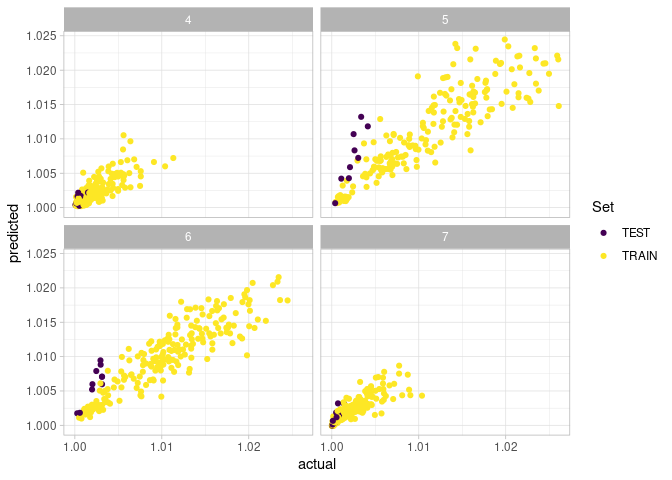
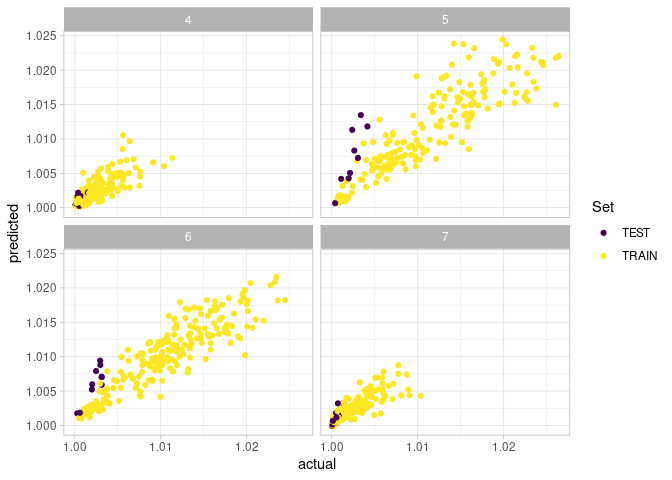
update readme

diff --git a/README.md b/README.md
@@ -147,10 +147,10 @@ bounds_voronoi <- bounds %>%
 bounds_voronoi
 #> 
 #> ‒‒ SSPM Boundary (Discrete) ‒‒
-#> →  Boundaries    : [4 observations, 3 variables]
-#> →  Boundary col. : sfa
-#> →  Surface col.  : area
-#> →  Discretized   : 
+#> →  Boundaries         : [4 observations, 3 variables]
+#> →  Boundary col.      : sfa
+#> →  Boundary area col. : area_sfa
+#> →  Discretized        : 
 #>    ٭ Points — [40 features, 20 variables]
 #>    ٭ Patches — [38 features, 4 variables]
 ```
@@ -185,7 +185,7 @@ spm_plot(bounds_delaunay)
 ``` r
 spm_patches(bounds_voronoi)
 #> Simple feature collection with 38 features and 3 fields
-#> Geometry type: GEOMETRY
+#> Geometry type: POLYGON
 #> Dimension:     XY
 #> Bounding box:  xmin: -64.5 ymin: 46.00004 xmax: -46.6269 ymax: 61
 #> Geodetic CRS:  WGS 84
@@ -226,7 +226,7 @@ spm_points(bounds_voronoi)
 #> # … with 30 more rows, and 11 more variables: lat_dec <dbl>, depth <dbl>,
 #> #   temp_at_bottom <dbl>, weight <dbl>, weight_per_km2 <dbl>,
 #> #   recruit_weight <dbl>, row <int>, uniqueID <chr>, geometry <POINT [°]>,
-#> #   sfa <chr>, area [km^2]
+#> #   sfa <chr>, area_sfa [km^2]
 ```
 
 7.  The next step in this workflow is to smooth the variables to be used
@@ -257,7 +257,7 @@ biomass_smooth
 #> →  Formulas          : 
 #>       – weight_per_km2 ~ sfa + smooth_time(k = 3, bs = 'mrf') + smooth_space() + smooth_space_time(k = c(NA, 30))
 #>       – temp_at_bottom ~ smooth_time(k = 2) + smooth_space()
-#> →  Boundaries        : [4 observations, 3 variables]
+#> →  Boundaries         : [4 observations, 3 variables]
 #> →  Smoothed Data     : [912 observations, 8 variables]
 #>    ٭ smoothed vars: temp_at_bottom_smooth — weight_per_km2_smooth
 ```
@@ -289,7 +289,7 @@ predator_smooth
 #> →  Coordinates cols. : lon_dec, lat_dec
 #> →  Formulas          : 
 #>       – weight_per_km2 ~ smooth_time(k = 3) + smooth_space()
-#> →  Boundaries        : [4 observations, 3 variables]
+#> →  Boundaries         : [4 observations, 3 variables]
 #> →  Smoothed Data     : [912 observations, 7 variables]
 #>    ٭ smoothed vars: weight_per_km2_smooth
 ```
@@ -335,7 +335,7 @@ biomass_smooth_w_catch
 #> →  Formulas          : 
 #>       – weight_per_km2 ~ sfa + smooth_time(k = 3, bs = 'mrf') + smooth_space() + smooth_space_time(k = c(NA, 30))
 #>       – temp_at_bottom ~ smooth_time(k = 2) + smooth_space()
-#> →  Boundaries        : [4 observations, 3 variables]
+#> →  Boundaries         : [4 observations, 3 variables]
 #> →  Smoothed Data     : [912 observations, 13 variables]
 #>    ٭ smoothed vars: temp_at_bottom_smooth — weight_per_km2_smooth
 #>    ٭ vars with catch: weight_per_km2_smooth_borealis_with_catch
@@ -419,31 +419,31 @@ sspm_model_fit
 #> 
 #> Parametric coefficients:
 #>                                             Estimate Std. Error t value
-#> (Intercept)                               -8.225e-01  4.038e-02 -20.369
-#> sfa5                                       6.464e-02  1.765e-03  36.635
-#> sfa6                                       7.925e-02  2.277e-03  34.810
-#> sfa7                                       9.275e-02  2.739e-03  33.857
-#> weight_per_km2_smooth_all_predators_lag_1  2.294e-06  7.219e-06   0.318
-#> temp_at_bottom_smooth                      1.778e-03  2.880e-04   6.172
+#> (Intercept)                               -8.186e-01  3.923e-02 -20.869
+#> sfa5                                       6.448e-02  1.777e-03  36.285
+#> sfa6                                       7.904e-02  2.291e-03  34.504
+#> sfa7                                       9.250e-02  2.757e-03  33.552
+#> weight_per_km2_smooth_all_predators_lag_1  1.921e-06  6.878e-06   0.279
+#> temp_at_bottom_smooth                      1.767e-03  2.847e-04   6.207
 #>                                           Pr(>|t|)    
 #> (Intercept)                                < 2e-16 ***
 #> sfa5                                       < 2e-16 ***
 #> sfa6                                       < 2e-16 ***
 #> sfa7                                       < 2e-16 ***
-#> weight_per_km2_smooth_all_predators_lag_1    0.751    
-#> temp_at_bottom_smooth                     1.06e-09 ***
+#> weight_per_km2_smooth_all_predators_lag_1     0.78    
+#> temp_at_bottom_smooth                     8.64e-10 ***
 #> ---
 #> Signif. codes:  0 '***' 0.001 '**' 0.01 '*' 0.05 '.' 0.1 ' ' 1
 #> 
 #> Approximate significance of smooth terms:
-#>                            edf Ref.df       F p-value    
-#> s(lag_matrix):by_matrix  4.929      5 513.205  <2e-16 ***
-#> s(patch_id)             16.509     29   1.966  <2e-16 ***
+#>                            edf Ref.df       F  p-value    
+#> s(lag_matrix):by_matrix  4.932      5 505.723  < 2e-16 ***
+#> s(patch_id)             16.338     29   1.895 3.03e-07 ***
 #> ---
 #> Signif. codes:  0 '***' 0.001 '**' 0.01 '*' 0.05 '.' 0.1 ' ' 1
 #> 
-#> R-sq.(adj) =  0.883   Deviance explained = 71.3%
-#> -REML = 1226.3  Scale est. = 1         n = 836
+#> R-sq.(adj) =  0.884   Deviance explained = 71.2%
+#> -REML = 1227.9  Scale est. = 1         n = 836
 ```
 
 16. Plotting the object produces a actual vs predicted plot (with
@@ -462,12 +462,12 @@ spm_plot(sspm_model_fit)
 preds <- spm_predict(sspm_model_fit)
 head(preds)
 #>       pred_log     pred patch_id year_f sfa                       geometry
-#> 1 0.0008544747 1.000855       P1   1995   4 POLYGON ((-64.42169 60.2712...
-#> 2 0.0003477638 1.000348       P1   1996   4 POLYGON ((-64.42169 60.2712...
-#> 3 0.0003183767 1.000318       P1   1997   4 POLYGON ((-64.42169 60.2712...
-#> 4 0.0001999048 1.000200       P1   1998   4 POLYGON ((-64.42169 60.2712...
-#> 5 0.0004698755 1.000470       P1   1999   4 POLYGON ((-64.42169 60.2712...
-#> 6 0.0006820664 1.000682       P1   2000   4 POLYGON ((-64.42169 60.2712...
+#> 1 0.0008397704 1.000840       P1   1995   4 POLYGON ((-64.42169 60.2712...
+#> 2 0.0003481465 1.000348       P1   1996   4 POLYGON ((-64.42169 60.2712...
+#> 3 0.0003242303 1.000324       P1   1997   4 POLYGON ((-64.42169 60.2712...
+#> 4 0.0002014760 1.000201       P1   1998   4 POLYGON ((-64.42169 60.2712...
+#> 5 0.0004777427 1.000478       P1   1999   4 POLYGON ((-64.42169 60.2712...
+#> 6 0.0006854760 1.000686       P1   2000   4 POLYGON ((-64.42169 60.2712...
 ```
 
 ``` r
@@ -478,20 +478,20 @@ head(biomass_preds)
 #> Dimension:     XY
 #> Bounding box:  xmin: -64.5 ymin: 58.4628 xmax: -61.36857 ymax: 60.62184
 #> Geodetic CRS:  WGS 84
-#>   patch_id year_f sfa     area biomass_density_with_catch biomass_density
-#> 1       P1   1995   4 20367394                   5457.406        5456.126
-#> 2       P1   1996   4 20367394                   5454.642        5453.430
-#> 3       P1   1997   4 20367394                   5454.485        5454.047
-#> 4       P1   1998   4 20367394                   5453.840        5451.744
-#> 5       P1   1999   4 20367394                   5455.308        5451.981
-#> 6       P1   2000   4 20367394                   5456.467        5448.489
-#>   biomass_with_catch      biomass                       geometry
-#> 1       111153137208 111127071762 POLYGON ((-64.42169 60.2712...
-#> 2       111096842000 111072156073 POLYGON ((-64.42169 60.2712...
-#> 3       111093645222 111084721002 POLYGON ((-64.42169 60.2712...
-#> 4       111080508244 111037824727 POLYGON ((-64.42169 60.2712...
-#> 5       111110416696 111042655473 POLYGON ((-64.42169 60.2712...
-#> 6       111134006262 110971520471 POLYGON ((-64.42169 60.2712...
+#>   patch_id year_f sfa            area biomass_density_with_catch
+#> 1       P1   1995   4 20367.39 [km^2]                   5457.326
+#> 2       P1   1996   4 20367.39 [km^2]                   5454.644
+#> 3       P1   1997   4 20367.39 [km^2]                   5454.517
+#> 4       P1   1998   4 20367.39 [km^2]                   5453.848
+#> 5       P1   1999   4 20367.39 [km^2]                   5455.352
+#> 6       P1   2000   4 20367.39 [km^2]                   5456.485
+#>   biomass_density biomass_with_catch   biomass                       geometry
+#> 1        5456.046          111151511 111125446 POLYGON ((-64.42169 60.2712...
+#> 2        5453.432          111096891 111072206 POLYGON ((-64.42169 60.2712...
+#> 3        5454.079          111094295 111085371 POLYGON ((-64.42169 60.2712...
+#> 4        5451.752          111080672 111037989 POLYGON ((-64.42169 60.2712...
+#> 5        5452.025          111111296 111043534 POLYGON ((-64.42169 60.2712...
+#> 6        5448.507          111134383 110971897 POLYGON ((-64.42169 60.2712...
 ```
 
 18. We can also produce a biomass plot (note that this simulated data is
